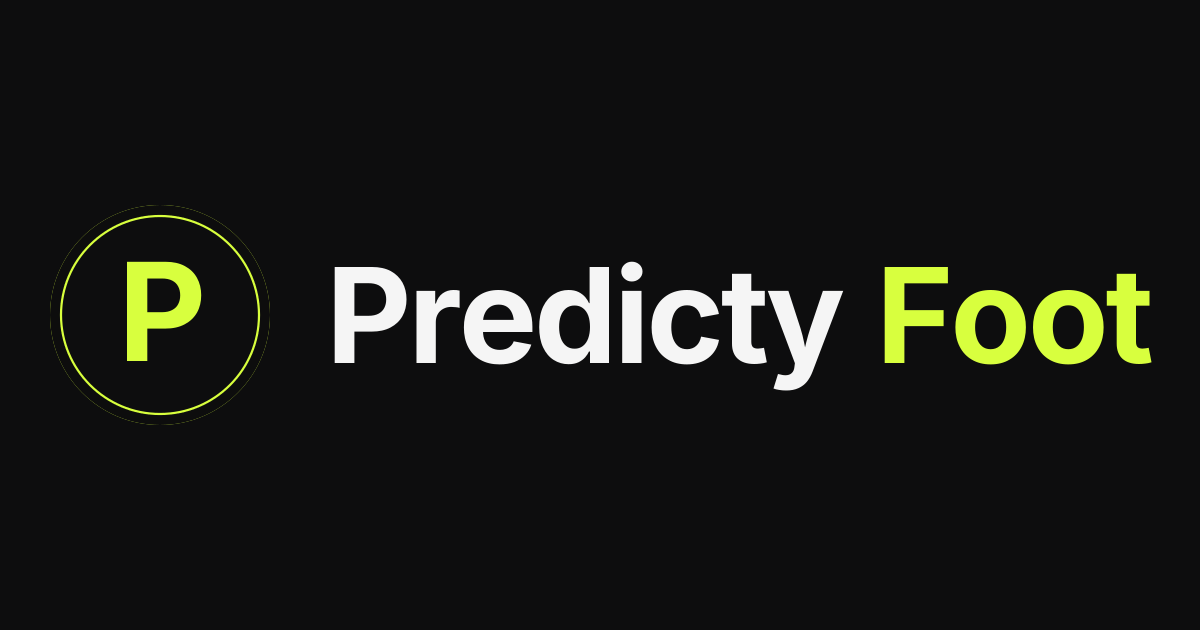
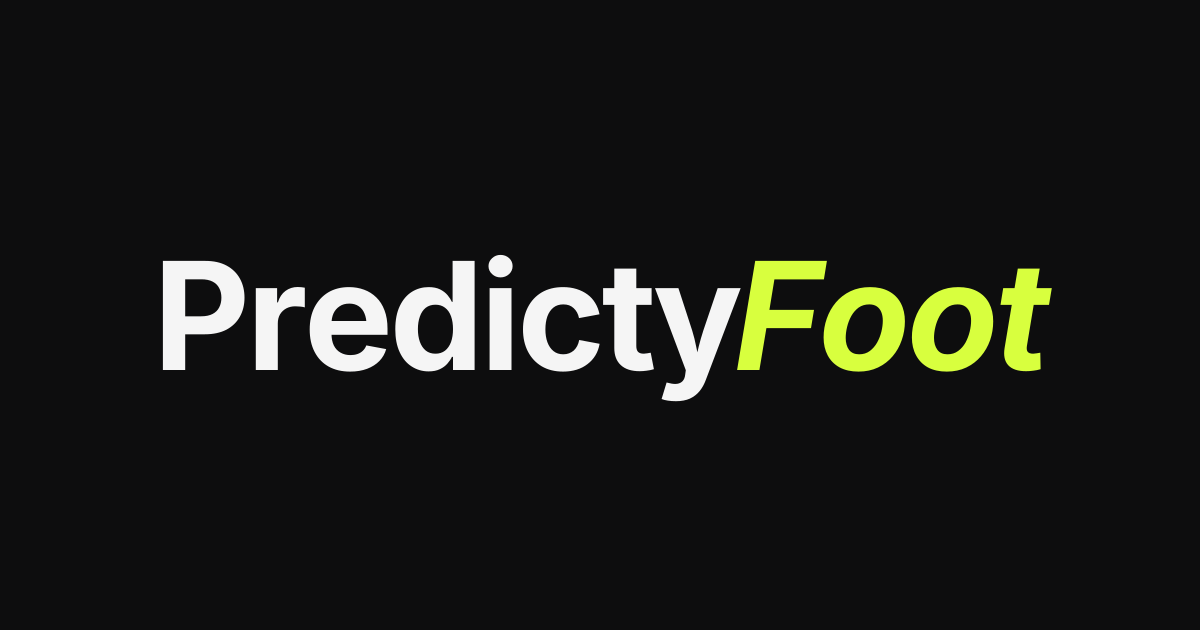
Switch brand identity to typographic wordmark and monogram
- Replace navbar image logo with pure typographic wordmark
- Generate PF monogram for favicon and apple-icon
- Replace icon.png with icon.svg and update OG banner
- Support italic Inter font in root layout and brand generator script

diff --git a/scripts/brand.ts b/scripts/brand.ts
@@ -1,28 +1,40 @@
-// Renders the brand assets from the typeface the navbar wordmark uses
-// (Inter Bold, tight tracking), so the logo is the type, not a drawn glyph.
-// Uses the satori/resvg renderer bundled with Next; no extra dependency.
+// Renders the raster brand assets from the navbar wordmark: "Predicty" in the
+// heading type (Inter Bold, tight tracking) with "Foot" italic in brand lime,
+// tucked into the preceding letter. Uses the satori/resvg renderer bundled
+// with Next; no extra dependency. `public/icon.svg` is the same wordmark as
+// hand-written SVG and is not touched here.
 //
 //   bun run brand
 //
-// Writes public/icon.png (square mark, also the apple icon), app/favicon.ico
-// (256px PNG-in-ICO) and public/og.png (1200x630 mark plus wordmark).
+// Writes app/favicon.ico (256px PNG-in-ICO) and app/apple-icon.png (180px),
+// both the "PF" monogram, and public/og.png (1200x630 wordmark banner).
 import { writeFile } from "node:fs/promises";
 import { createElement as h, type CSSProperties, type ReactElement } from "react";
 import { ImageResponse } from "next/dist/compiled/@vercel/og/index.node.js";
 
 const LIME = "#d8ff3e";
 const INK = "#0d0d0e";
+const FOREGROUND = "#f5f5f5";
 const FONT_CSS =
-  "https://fonts.googleapis.com/css2?family=Inter:wght@700&text=PredictyFoot";
+  "https://fonts.googleapis.com/css2?family=Inter:ital,wght@0,700;1,700&text=PredictyFoot";
+
+type Font = { name: string; data: ArrayBuffer; weight: 700; style: "normal" | "italic" };
 
 // Google Fonts serves WOFF (satori cannot read woff2) to a pre-woff2 user agent.
-async function loadInterBold(): Promise<ArrayBuffer> {
+async function loadInterBold(): Promise<Font[]> {
   const css = await fetch(FONT_CSS, {
     headers: { "User-Agent": "Mozilla/5.0 (Windows NT 6.1; rv:12.0) Gecko/20100101 Firefox/12.0" },
   }).then((r) => r.text());
-  const url = css.match(/src: url\((https:[^)]+)\)/)?.[1];
-  if (!url) throw new Error("Inter Bold url not found in Google Fonts CSS");
-  return fetch(url).then((r) => r.arrayBuffer());
+  const faces = [...css.matchAll(/font-style: (normal|italic);[\s\S]*?src: url\((https:[^)]+)\)/g)];
+  if (faces.length !== 2) throw new Error("expected normal and italic Inter faces in Google Fonts CSS");
+  return Promise.all(
+    faces.map(async ([, style, url]) => ({
+      name: "Inter",
+      data: await fetch(url).then((r) => r.arrayBuffer()),
+      weight: 700 as const,
+      style: style as Font["style"],
+    })),
+  );
 }
 
 const type = (size: number): CSSProperties => ({
@@ -33,8 +45,25 @@ const type = (size: number): CSSProperties => ({
   lineHeight: 1,
 });
 
-// Circular mark: ink disc, inset lime ring, bold "P" in the wordmark type.
-function mark(size: number): ReactElement {
+const accent = (size: number, text: string): ReactElement =>
+  h(
+    "span",
+    { style: { display: "flex", fontStyle: "italic", color: LIME, marginLeft: -size * 0.04 } },
+    text,
+  );
+
+function wordmark(size: number): ReactElement {
+  return h(
+    "div",
+    { style: { display: "flex", color: FOREGROUND, ...type(size) } },
+    h("span", { style: { display: "flex" } }, "Predicty"),
+    accent(size, "Foot"),
+  );
+}
+
+// Square monogram for icons: initials in the wordmark treatment on ink.
+function monogram(size: number): ReactElement {
+  const fs = size * 0.6;
   return h(
     "div",
     {
@@ -44,19 +73,17 @@ function mark(size: number): ReactElement {
         display: "flex",
         alignItems: "center",
         justifyContent: "center",
-        borderRadius: "50%",
         backgroundColor: INK,
-        boxShadow: `inset 0 0 0 ${size * 0.045}px ${INK}, inset 0 0 0 ${size * 0.055}px ${LIME}`,
-        color: LIME,
-        ...type(size * 0.62),
+        color: FOREGROUND,
+        ...type(fs),
       },
     },
-    h("span", { style: { display: "flex", marginTop: -size * 0.035 } }, "P"),
+    h("span", { style: { display: "flex" } }, "P"),
+    accent(fs, "F"),
   );
 }
 
-// Open Graph card: mark plus the two-tone wordmark from the navbar.
-function card(): ReactElement {
+function banner(): ReactElement {
   return h(
     "div",
     {
@@ -66,28 +93,15 @@ function card(): ReactElement {
         display: "flex",
         alignItems: "center",
         justifyContent: "center",
-        gap: 56,
         backgroundColor: INK,
-        color: "#f5f5f5",
-        ...type(132),
       },
     },
-    mark(220),
-    h(
-      "div",
-      { style: { display: "flex", gap: 34 } },
-      h("span", { style: { display: "flex" } }, "Predicty"),
-      h("span", { style: { display: "flex", color: LIME } }, "Foot"),
-    ),
+    wordmark(150),
   );
 }
 
-async function render(node: ReactElement, width: number, height: number, font: ArrayBuffer) {
-  const res = new ImageResponse(node, {
-    width,
-    height,
-    fonts: [{ name: "Inter", data: font, weight: 700, style: "normal" }],
-  });
+async function render(node: ReactElement, width: number, height: number, fonts: Font[]) {
+  const res = new ImageResponse(node, { width, height, fonts });
   return Buffer.from(await res.arrayBuffer());
 }
 
@@ -108,8 +122,8 @@ function ico(png: Buffer, size: number): Buffer {
   return Buffer.concat([header, png]);
 }
 
-const font = await loadInterBold();
-await writeFile("public/icon.png", await render(mark(1024), 1024, 1024, font));
-await writeFile("app/favicon.ico", ico(await render(mark(256), 256, 256, font), 256));
-await writeFile("public/og.png", await render(card(), 1200, 630, font));
-console.log("wrote public/icon.png, app/favicon.ico, public/og.png");
+const fonts = await loadInterBold();
+await writeFile("app/favicon.ico", ico(await render(monogram(256), 256, 256, fonts), 256));
+await writeFile("app/apple-icon.png", await render(monogram(180), 180, 180, fonts));
+await writeFile("public/og.png", await render(banner(), 1200, 630, fonts));
+console.log("wrote app/favicon.ico, app/apple-icon.png, public/og.png");

diff --git a/components/Navbar.tsx b/components/Navbar.tsx
@@ -1,4 +1,3 @@
-import Image from "next/image";
 import Link from "next/link";
 import { Badge } from "@/app/components/ui/badge";
 import { Button } from "@/app/components/ui/button";
@@ -11,18 +10,11 @@ export function Navbar() {
         <div className="flex items-center gap-3">
           <Link
             href="/"
-            className="flex items-center gap-2.5 rounded-md text-foreground transition-opacity hover:opacity-85 focus-visible:outline-none focus-visible:ring-2 focus-visible:ring-ring"
+            className="rounded-md font-heading text-xl font-bold leading-none tracking-tight text-foreground transition-opacity hover:opacity-85 focus-visible:outline-none focus-visible:ring-2 focus-visible:ring-ring sm:text-2xl"
           >
-            <Image
-              src="/icon.png"
-              alt="Predicty Foot"
-              width={32}
-              height={32}
-              className="size-8 rounded-full object-contain"
-              priority
-            />
-            <span className="font-heading text-lg sm:text-xl font-bold tracking-tight">
-              Predicty <span className="text-brand">Foot</span>
+            <span translate="no">
+              Predicty
+              <em className="-ml-[0.04em] italic text-brand">Foot</em>
             </span>
           </Link>
           <Badge variant="outline" size="sm" className="hidden sm:inline-flex">

diff --git a/app/layout.tsx b/app/layout.tsx
@@ -9,6 +9,8 @@ import "./globals.css";
 const inter = Inter({
   variable: "--font-sans",
   subsets: ["latin"],
+  // Italic carries the accent word of the wordmark.
+  style: ["normal", "italic"],
   display: "swap",
 });
 
@@ -40,7 +42,6 @@ export const metadata: Metadata = {
     description: SITE_DESCRIPTION,
     images: ["/og.png"],
   },
-  icons: { apple: "/icon.png" },
 };
 
 export const viewport: Viewport = {

diff --git a/AGENTS.md b/AGENTS.md
@@ -35,10 +35,12 @@ Bun 1.4.0 in the Docker image (1.3.14 segfaults in `next build` there), Node 22.
   `border`, `input`, `ring`, `destructive`, `warning`, `success`).
 - Fonts: `Inter` for headings and body (`font-sans`), `Geist Mono` for numbers, labels,
   and odds (`font-mono`). Loaded through `next/font/google`.
-- Brand assets (`public/icon.png`, `app/favicon.ico`, `public/og.png`) are the wordmark
-  type: Inter Bold "P" in `--brand` lime on an ink disc. `bun run brand` regenerates them
-  from `scripts/brand.ts` (satori bundled with Next, font fetched from Google Fonts);
-  never hand-edit the PNGs.
+- Branding is the typographic wordmark from `Navbar`: "Predicty" in Inter Bold with
+  "Foot" italic in `--brand` lime, tucked `-ml-[0.04em]`, same treatment as pdfcmprs.
+  No image mark. `public/icon.svg` is the wordmark as SVG (README, light/dark aware).
+  `bun run brand` regenerates `app/favicon.ico`, `app/apple-icon.png` ("PF" monogram)
+  and `public/og.png` from `scripts/brand.ts` (satori bundled with Next, Inter fetched
+  from Google Fonts); never hand-edit the rasters.
 - Floating island navigation with `ThemeToggle`, `Badge`, and clean action buttons.
 - Cards use the signature Coss inset shadow highlights:
   `dark:before:shadow-[0_-1px_--theme(--color-white/6%)]`.

diff --git a/README.md b/README.md
@@ -1,5 +1,5 @@
 <p align="center">
-  <img src="public/icon.png" alt="Predicty Foot logo" width="140">
+  <img src="public/icon.svg" alt="Predicty Foot logo" width="220">
 </p>
 
 <h1 align="center">Predicty Foot</h1>
